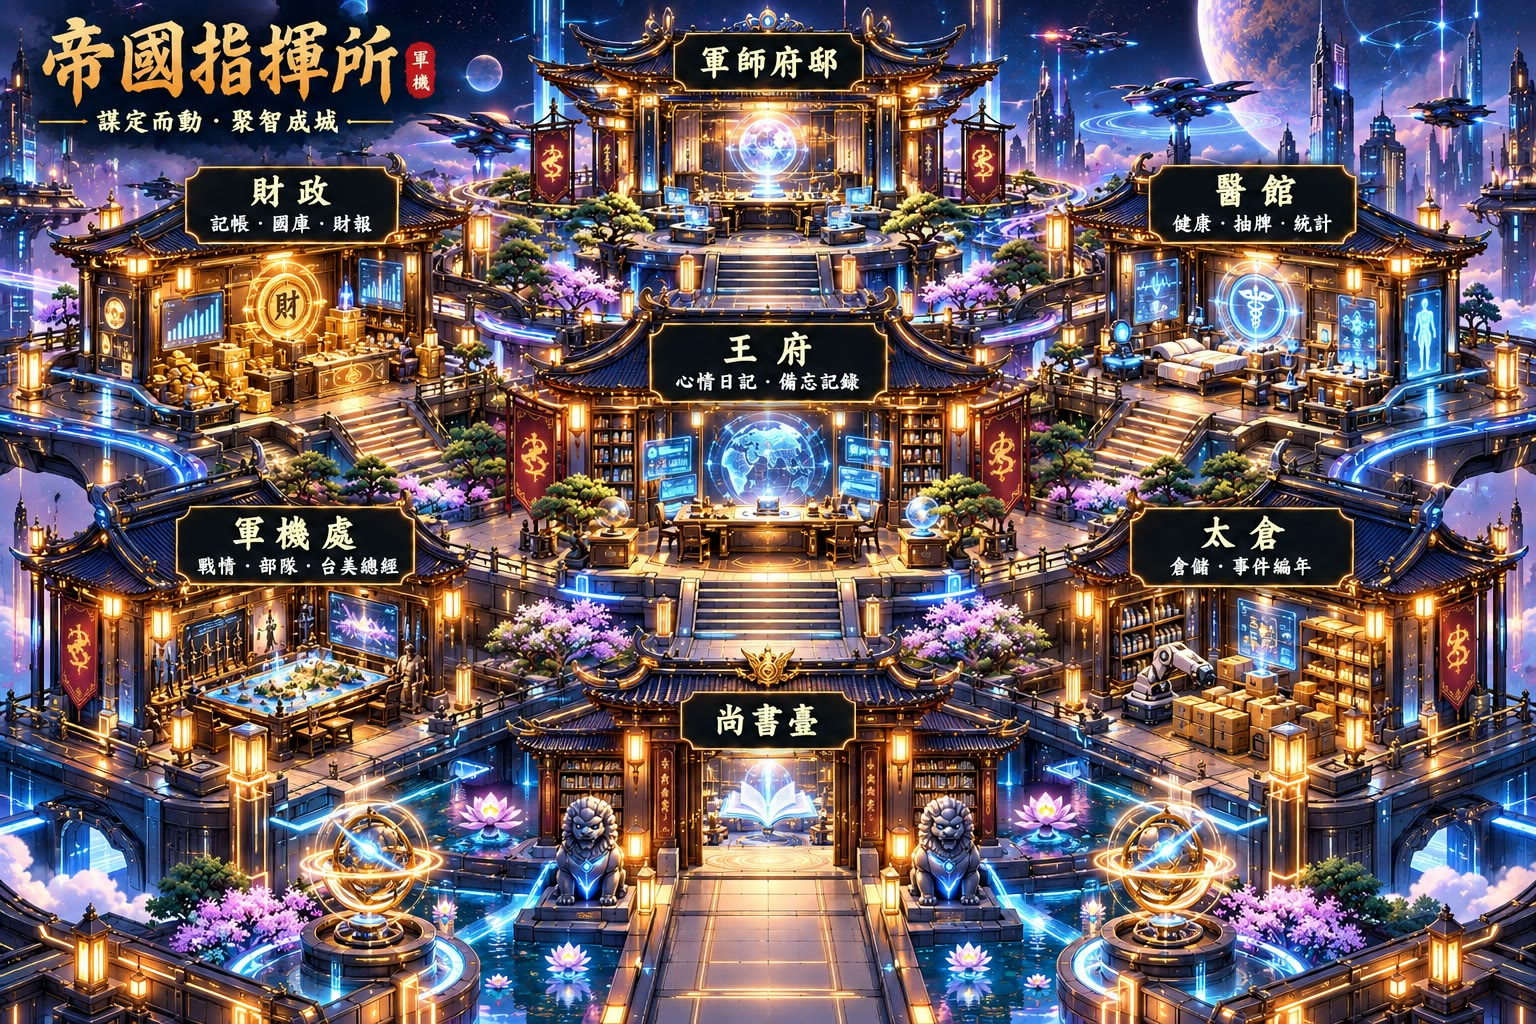
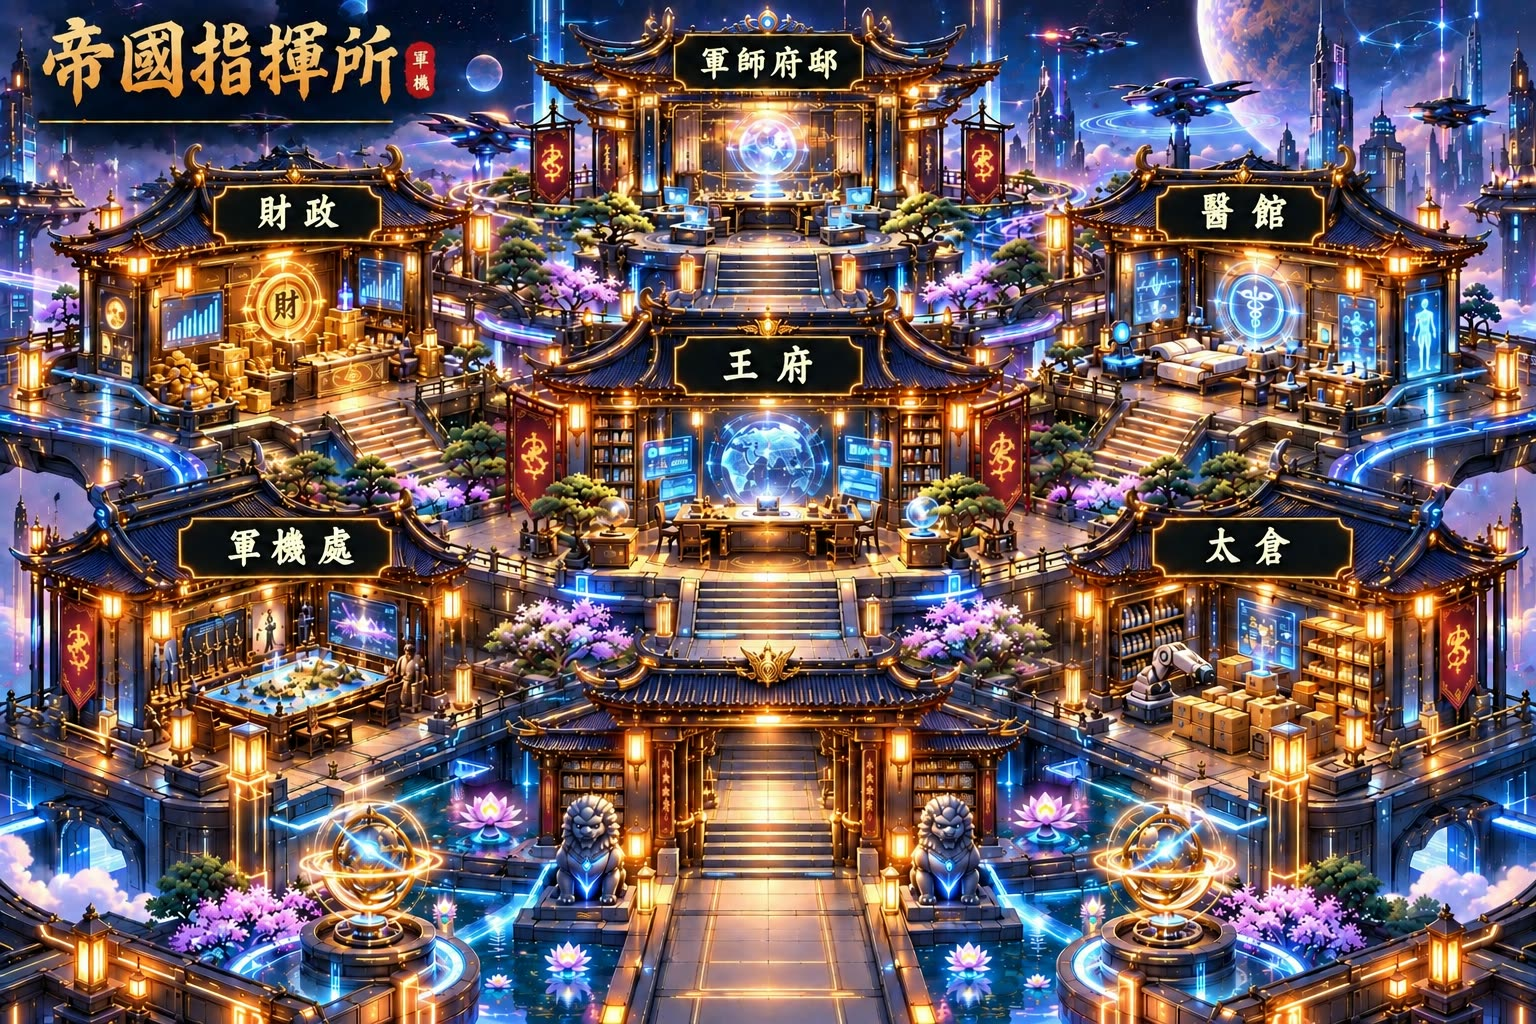
Update desktop command center background

diff --git a/index.html b/index.html
@@ -4790,8 +4790,8 @@ html[data-theme="deep-blue"] .scene-task-details .home-agenda-global-refresh{bor
       <source media="(max-width:768px)" type="image/avif" srcset="./mobileBG.avif?v=20260930-mobile1">
       <source media="(max-width:768px)" type="image/webp" srcset="./mobileBG.webp?v=20260930-mobile1">
       <source media="(max-width:768px)" srcset="./mobileBG.jpg?v=20260930-mobile1">
-      <source type="image/webp" srcset="./junshifu-map.webp?v=20260930-sci-fi1">
-      <img class="npc-web-scene-map" src="./junshifu-map.jpg?v=20260930-sci-fi1" alt="帝國指揮所場景：財政、醫館、王府、軍機處、太倉與指揮所" decoding="async" fetchpriority="high">
+      <source type="image/webp" srcset="./junshifu-map.webp?v=20261003-desktop-map1">
+      <img class="npc-web-scene-map" src="./junshifu-map.jpg?v=20261003-desktop-map1" alt="帝國指揮所場景：財政、醫館、王府、軍機處、太倉與指揮所" decoding="async" fetchpriority="high">
     </picture>
     <div class="scene-widget-dock" id="scene-widget-dock">
     </div>
